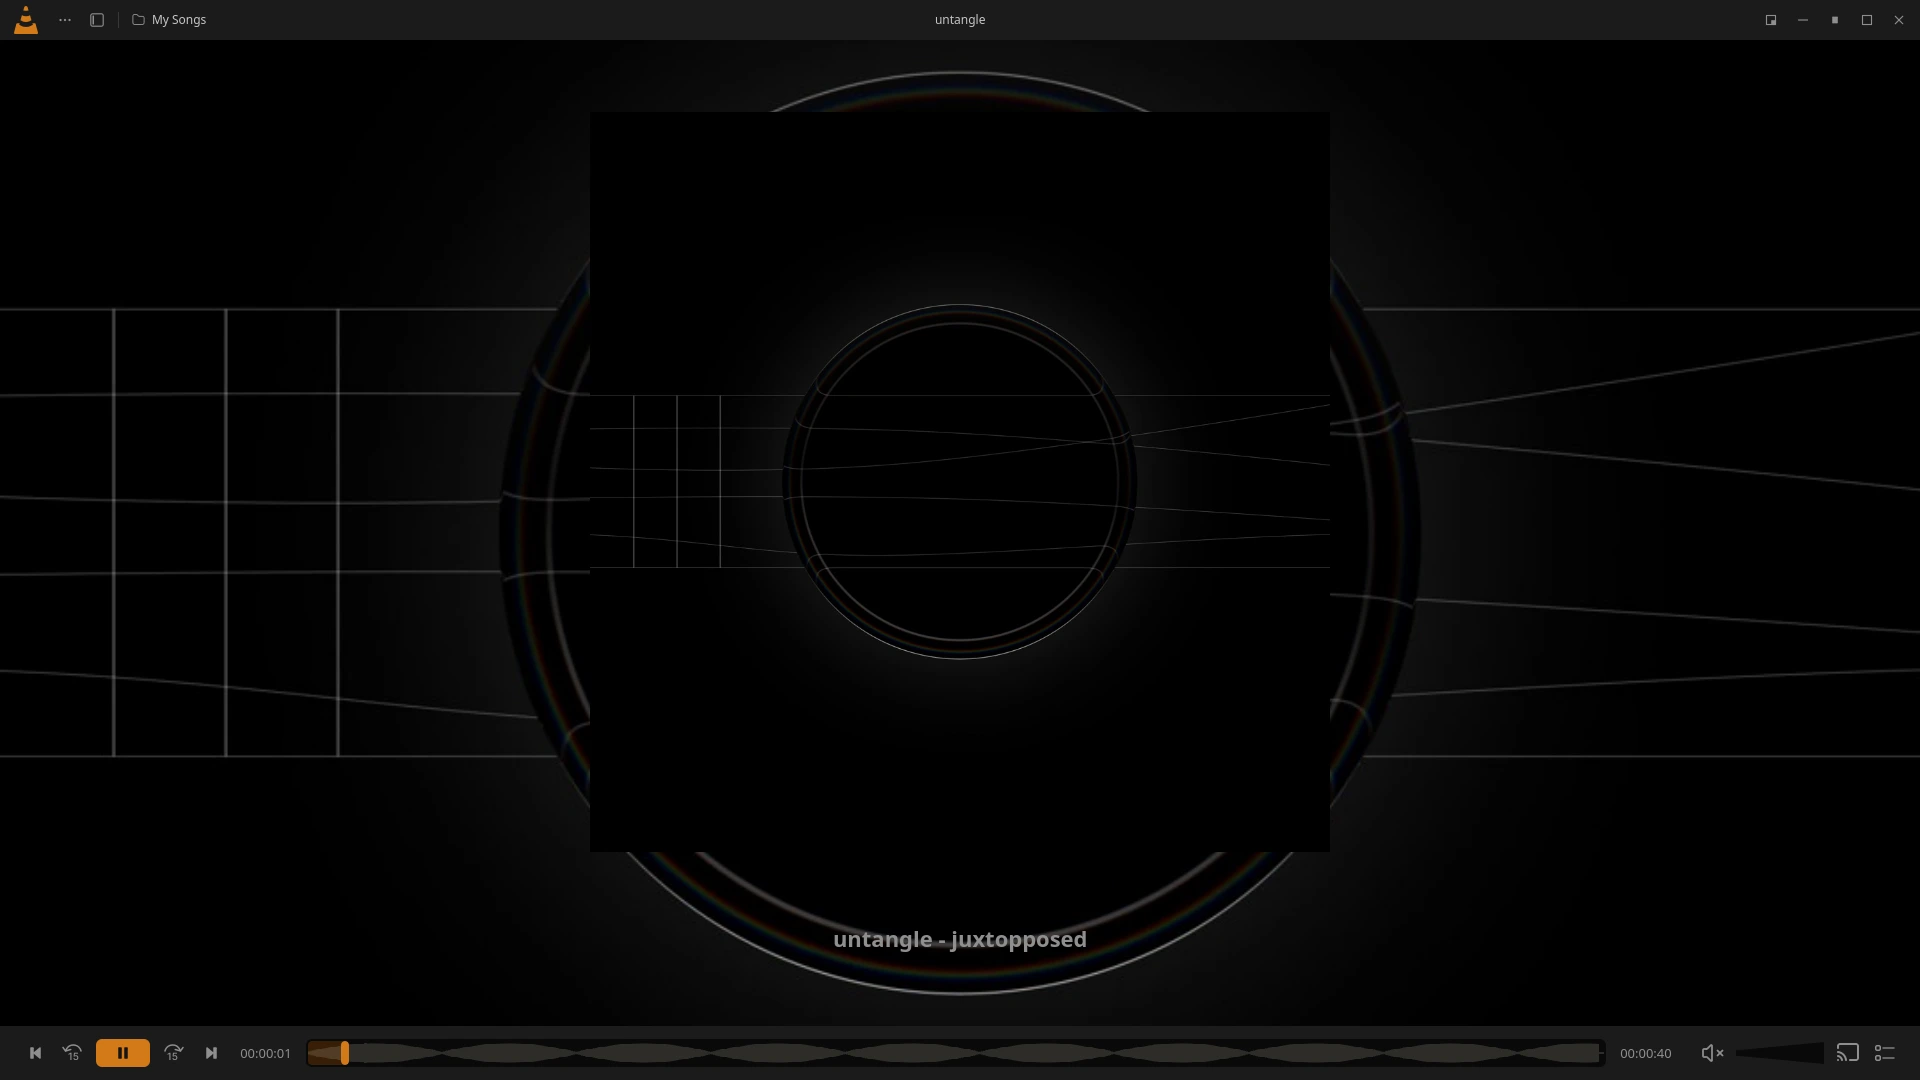
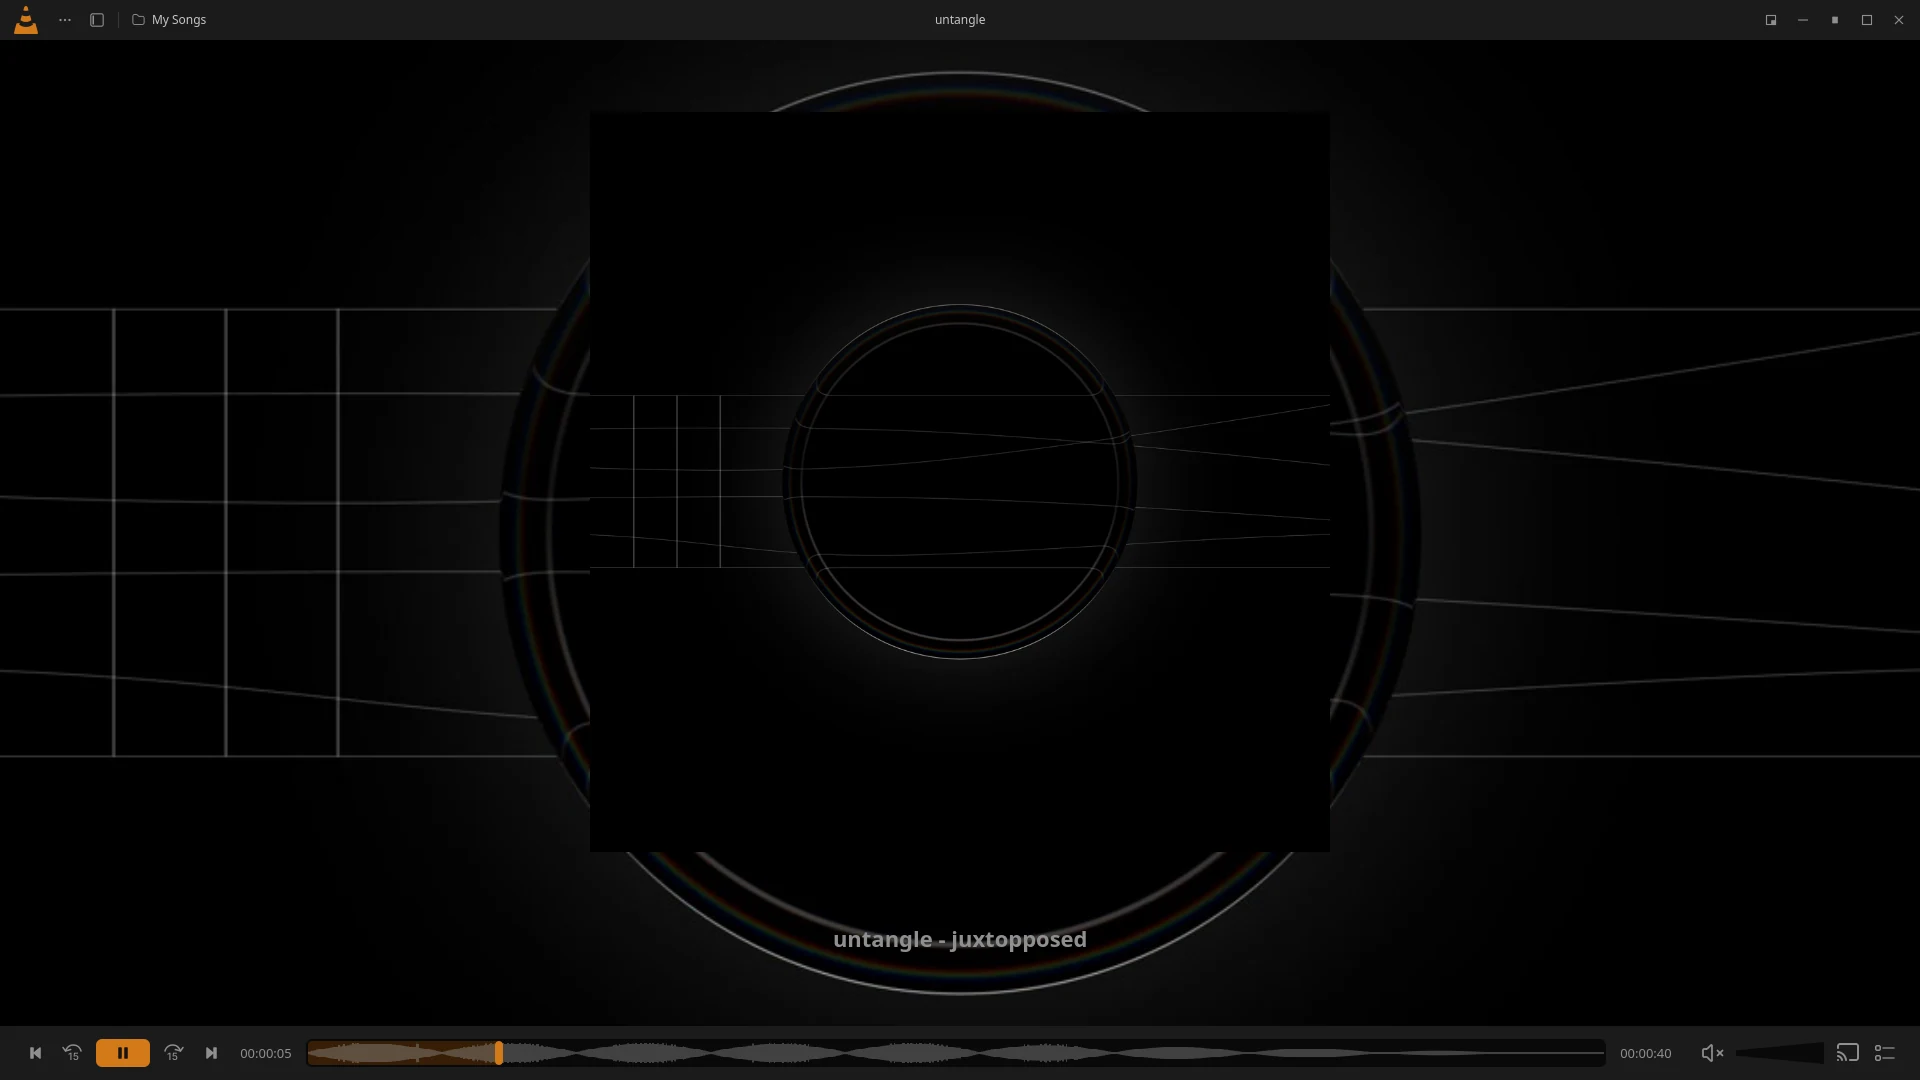
fix(ui): improve music waveform visibility

Changed region(s): [[0.1562, 0.9472, 0.8438, 1.0]]

diff --git a/qml/SeekBar.qml b/qml/SeekBar.qml
@@ -207,7 +207,7 @@ FocusScope {
             smooth: false
             cache: false
             asynchronous: true
-            opacity: 0.72
+            opacity: 0.82
             visible: status === Image.Ready
         }
         Canvas {

diff --git a/src/thumbnail_provider.cpp b/src/thumbnail_provider.cpp
@@ -470,7 +470,7 @@ public:
         waveform.fill(Qt::transparent);
         QPainter painter(&waveform);
         painter.setRenderHint(QPainter::Antialiasing);
-        painter.setPen(QPen(QColor(160, 150, 136, 175), 0.5, Qt::SolidLine, Qt::RoundCap));
+        painter.setPen(QPen(QColor(160, 160, 160, 230), 0.5, Qt::SolidLine, Qt::RoundCap));
         const qreal center = kWaveformHeight / 2.0;
         QVector<quint16> sortedPeaks = peaks;
         std::sort(sortedPeaks.begin(), sortedPeaks.end());

diff --git a/docs/figma-parity.md b/docs/figma-parity.md
@@ -11,7 +11,7 @@ Existing behavior is exercised through `scripts/smoke-test.sh`: playback and que
 This matrix tracks VLC Neo against the [VLC Redesign (Community) Figma file](https://www.figma.com/design/4JZcTRTM2ZVZdIV0S61smp/VLC-Redesign--Community---copie-) by Juxtopposed. The authenticated `browser` editor currently loads the copied file. The Figma MCP is authenticated as the user's Starter-plan **View** seat. On 2026-10-29, `get_screenshot` successfully rendered Home node `6261:15078`; the Starter-plan Figma MCP call limit now blocks further screenshot and design-context requests, so current visual comparisons use the authenticated browser editor. Earlier inspection established that `Page 1` has 57 top-level screen frames and 46 component reference frames; the inventory below includes every screen frame, while the 46 component examples are not counted as UI coverage.
 The matrix has 25 grouped rows covering all 57 screen frames. Each row has an explicit status: **9 implemented, 16 partial**. “Partial” means at least one visual, behavior or environment-specific acceptance check remains open; it does not mean the listed implementation is absent.
 
-The **9 implemented / 16 partial / 0 not started** count describes Figma screen groups only (25 grouped rows covering 57 screen frames). Across phases 05–09, **3 phases are complete, 2 are in progress, and 0 are unstarted**. The latest fully successful cross-distro run is CI [`40905292691`](https://github.com/alexandreolives/vlc-neo/actions/runs/40905292691) for `4985793` on 2026-10-29: Arch and Linux Mint passed the build, all 14 CTests, and 878/878 real-VLC smoke assertions. This includes the corrected playlist keyboard scenario, the 15-item Figma light-sidebar probe, Home artwork, the 324 px search-field check, folder-toolbar tolerances, and Settings square accent swatches while onboarding swatches remain circular. The prior [`40867519168`](https://github.com/alexandreolives/vlc-neo/actions/runs/40867519168) run also passed the repeated-input equalizer PCM probe (0 dB and +12 dB, 3.98× RMS change) and 50,000-item search (one exact row in 125 ms on Arch and 122 ms on Mint; setters of 1 ms and 0 ms). Mint install and uninstall checks preserved the distribution Qt version and VLC desktop entry in both runs. Later attempt [`40883555354`](https://github.com/alexandreolives/vlc-neo/actions/runs/40883555354) failed 4 assertions on stale pin/title/opacity expectations; `66f9658` corrected those, then [`40889358757`](https://github.com/alexandreolives/vlc-neo/actions/runs/40889358757) exposed that its extra Pin menu item made the Figma More menu contain seven items instead of six on both distros. The current follow-up keeps the six-item menu and uses `Shift+L` for folder pinning. Run [`40890692036`](https://github.com/alexandreolives/vlc-neo/actions/runs/40890692036) passed the build, 14 CTests, preference audits, filters, equalizer, waveform, 110-item library, 50,000-item search and Figma sidebar probes on both distributions; the full smoke finished at 872 passed and 4 failed on each because the playlist keyboard scenario had a missing opening quote in its test expression. `40895499211` and `40899084526` verify that correction. Current run [`40909671354`](https://github.com/alexandreolives/vlc-neo/actions/runs/40909671354) for `d3bf313` is in progress; its Arch job has passed build, preference, Web Remote, filter, equalizer, waveform, 110-item library, 50,000-item search and 15-item sidebar steps, while Arch and Mint are still running the full smoke suites.
+The **9 implemented / 16 partial / 0 not started** count describes Figma screen groups only (25 grouped rows covering 57 screen frames). Across phases 05–09, **3 phases are complete, 2 are in progress, and 0 are unstarted**. The latest fully successful cross-distro run is CI [`40909671354`](https://github.com/alexandreolives/vlc-neo/actions/runs/40909671354) for `d3bf313` on 2026-10-29: Arch and Linux Mint passed the build, all 14 CTests, and 879/879 real-VLC smoke assertions. This includes the corrected playlist keyboard scenario, the 15-item Figma light-sidebar probe, Home artwork, the 324 px search-field check, folder-toolbar tolerances, and Settings square accent swatches while onboarding swatches remain circular. The prior [`40867519168`](https://github.com/alexandreolives/vlc-neo/actions/runs/40867519168) run also passed the repeated-input equalizer PCM probe (0 dB and +12 dB, 3.98× RMS change) and 50,000-item search (one exact row in 125 ms on Arch and 122 ms on Mint; setters of 1 ms and 0 ms). Mint install and uninstall checks preserved the distribution Qt version and VLC desktop entry in both runs. Later attempt [`40883555354`](https://github.com/alexandreolives/vlc-neo/actions/runs/40883555354) failed 4 assertions on stale pin/title/opacity expectations; `66f9658` corrected those, then [`40889358757`](https://github.com/alexandreolives/vlc-neo/actions/runs/40889358757) exposed that its extra Pin menu item made the Figma More menu contain seven items instead of six on both distros. The current follow-up keeps the six-item menu and uses `Shift+L` for folder pinning. Run [`40890692036`](https://github.com/alexandreolives/vlc-neo/actions/runs/40890692036) passed the build, 14 CTests, preference audits, filters, equalizer, waveform, 110-item library, 50,000-item search and Figma sidebar probes on both distributions; the full smoke finished at 872 passed and 4 failed on each because the playlist keyboard scenario had a missing opening quote in its test expression. `40895499211` and `40899084526` verify that correction. Run [`40909671354`](https://github.com/alexandreolives/vlc-neo/actions/runs/40909671354) completed successfully on both distributions: Arch and Mint each passed all 14 CTests and 879/879 smoke assertions, including the Figma folder-poster sequence.
 
 Focused Figma follow-up (2026-10-29): the wide folder toolbar search field was 190 px while the Player grid reference at node `970:2703` measures 324 px. The wide folder search now uses the 324 px reference width, the folder toolbar shows Figma's overflow menu in place of the close icon, and its right-edge actions and preceding controls use adjusted gaps. `scripts/test-library-110-items.sh` probes the search and toolbar positions and opens the six-action overflow menu. The first focused run measured `folderToolbarGeometry=1329/1398/1446/1494/1836/1868`; Arch and Mint measured the count label at x=1325 because of a 4 px font-metric difference, while all icon and search positions matched. The field starts at x=1494 and is 324 px wide. Refreshed [`folder-browser-110-grid.webp`](screenshots/folder-browser-110-grid.webp) and [`folder-browser-110-list.webp`](screenshots/folder-browser-110-list.webp) captures show the current toolbar and floating mini-player in both views; the episode posters now use the matching Figma stills. The test allows only the 1325–1329 text-label range and asserts the other toolbar coordinates and overflow-menu behavior. CI run [`40840269745`](https://github.com/alexandreolives/vlc-neo/actions/runs/40840269745) passed this toolbar assertion on both Arch and Mint; both runs decoded all 88 visible list thumbnails, and the count label measured x=1325 while the icon/search coordinates matched the target. The revised assertion accepts only the 1325–1329 font-metric range.
 
@@ -274,3 +274,6 @@ Player-Light header fidelity follow-up (2026-10-29, local): the 1920×1080 Figma
 
 
 Web Remote LAN follow-up (2026-10-29): added `scripts/test-web-remote-lan.py` to save all four VLC options in a private profile through the Neo QML bridge, relaunch the real VLC core with no HTTP flags and validate the service via the routed LAN IPv4 address. Local validation passed at `192.168.0.21`: no credentials received HTTP 401 and the configured password received HTTP 200 with a VLC status document. The test is in both Arch and Mint CI jobs. This confirms listening/authentication on a non-loopback address from the host; a second physical device and network firewall behavior remain open.
+
+
+Waveform contrast follow-up (2026-10-29): compared the music player against Figma node `4767:23726` in the authenticated browser. The bars now use a neutral gray with stronger visibility, while their shapes remain derived from the playing audio. The waveform variety check now also enforces a readable grayscale contrast range for jazz, classical and electronic fixtures. The refreshed [`music.webp`](screenshots/music.webp) shows the current 1920×1080 player capture.
